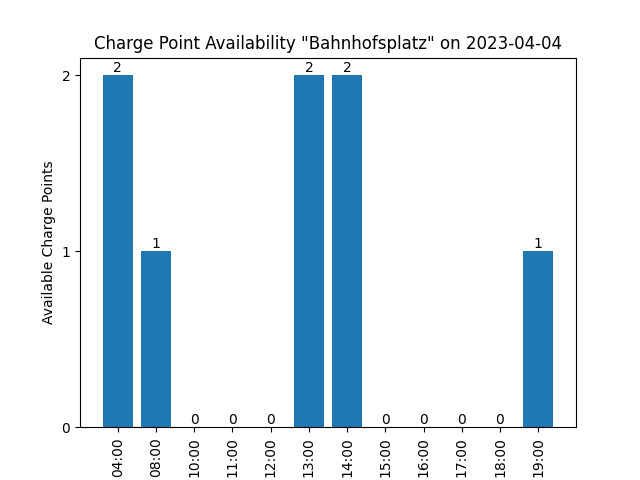
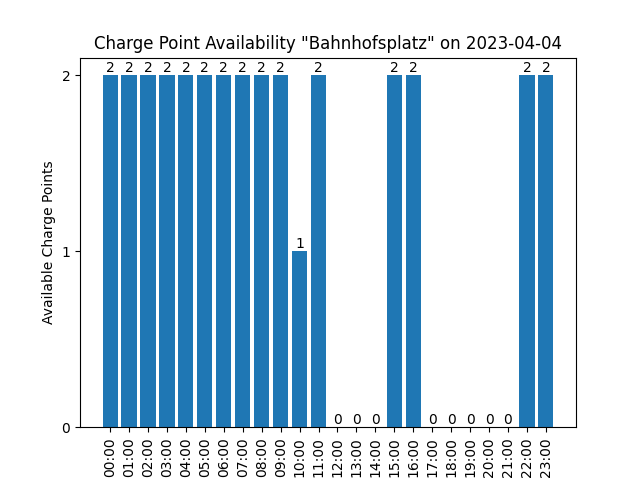
fix: fixed timezone issue for chart generation

Changed region(s): [[0.1562, 0.125, 0.875, 1.0]]

diff --git a/generate-history-chart.py b/generate-history-chart.py
@@ -2,6 +2,16 @@ import pygit2
 import json
 import datetime
 import matplotlib.pyplot as plt
+import pytz
+
+def get_last_commit_before_timestamp(repo, file_path, timestamp):
+    for commit in repo.walk(repo.head.target, pygit2.GIT_SORT_TIME):
+        if commit.commit_time < timestamp:
+            if file_path in commit.tree:
+                blob = repo[commit.tree[file_path].id]
+                content = blob.data.decode('utf-8')
+                return json.loads(content)
+    return None
 
 repo_path = '.'
 config = [
@@ -12,19 +22,25 @@ config = [
 
 repo = pygit2.Repository(repo_path)
 
-now = datetime.datetime.now()
+now = datetime.datetime.now(pytz.timezone('Europe/Berlin'))
 yesterday = now - datetime.timedelta(days=1)
-yesterday_start = datetime.datetime.combine(yesterday, datetime.time.min)
-yesterday_end = datetime.datetime.combine(yesterday, datetime.time.max) - datetime.timedelta(microseconds=1)
+yesterday_start = datetime.datetime.combine(yesterday, datetime.time.min).astimezone(pytz.utc)
+yesterday_end = datetime.datetime.combine(yesterday, datetime.time.max).astimezone(pytz.utc) - datetime.timedelta(microseconds=1)
 
 dateString = yesterday.strftime("%Y-%m-%d")
+
+berlin_tz = pytz.timezone('Europe/Berlin')
 
 for cfg in config:
     name = cfg["name"]
     displayName = cfg["displayName"]
     file_path = cfg["filePath"]
 
-    data = {}
+    data = {"availableChargePoints": {}}
+
+    prev_day_value = get_last_commit_before_timestamp(repo, file_path, yesterday_start.timestamp())
+    if prev_day_value is not None:
+        data["availableChargePoints"] = {hour.astimezone(berlin_tz): [prev_day_value["availableChargePoints"]] for hour in [yesterday_start + datetime.timedelta(hours=i) for i in range(24)]}
 
     for commit in repo.walk(repo.head.target, pygit2.GIT_SORT_TIME):
         if commit.commit_time < yesterday_start.timestamp():
@@ -36,11 +52,17 @@ for cfg in config:
             for key, value in values.items():
                 if key not in data:
                     data[key] = {}
-                timestamp = datetime.datetime.fromtimestamp(commit.commit_time)
+                timestamp = datetime.datetime.fromtimestamp(commit.commit_time, berlin_tz)
                 hour = timestamp.replace(minute=0, second=0, microsecond=0)
-                if hour not in data[key]:
-                    data[key][hour] = []
-                data[key][hour].append(value)
+                data[key][hour] = [value]
+
+    prev_value = prev_day_value["availableChargePoints"] if prev_day_value is not None else 0
+    for hour in [yesterday_start + datetime.timedelta(hours=i) for i in range(24)]:
+        hour_berlin = hour.astimezone(berlin_tz)
+        if hour_berlin not in data["availableChargePoints"]:
+            data["availableChargePoints"][hour_berlin] = [prev_value]
+        else:
+            prev_value = int(round(sum(data["availableChargePoints"][hour_berlin]) / len(data["availableChargePoints"][hour_berlin])))
 
     x = []
     y = []
